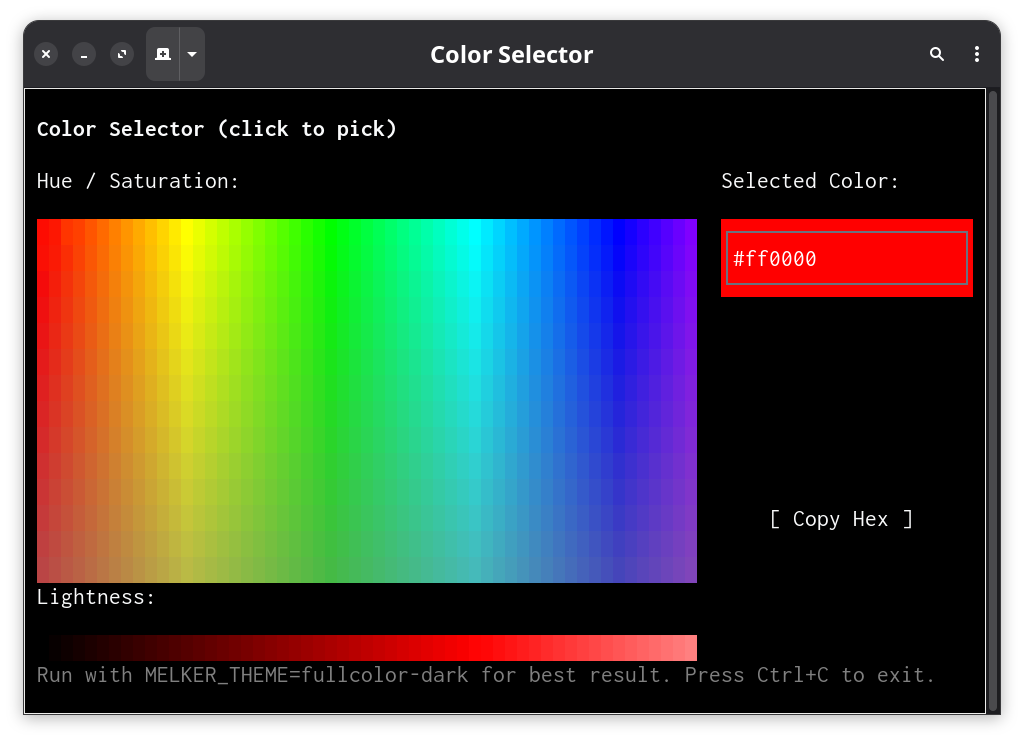
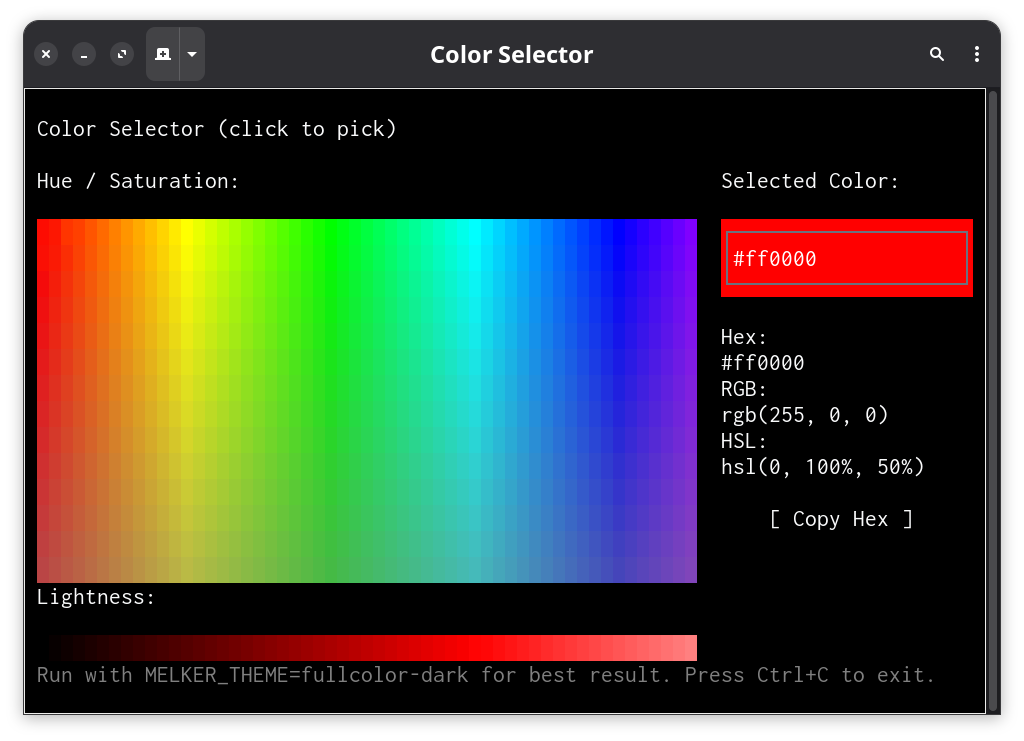
26

diff --git a/src/layout.ts b/src/layout.ts
@@ -551,6 +551,7 @@ export class LayoutEngine {
         flexBasisValue = typeof childProps.flexBasis === 'number' ? childProps.flexBasis : 0;
       }
 
+
       // Auto-set flexGrow for "fill" elements if not explicitly set
       let flexGrow = childProps.flexGrow || 0;
       if (flexGrow === 0) {
@@ -1176,6 +1177,7 @@ export class LayoutEngine {
 
   private _computeLayoutProps(element: Element, parentProps?: AdvancedLayoutProps): AdvancedLayoutProps {
     // Filter out explicit size properties from parent - these should not be inherited
+    // Also filter out gap - it's specific to each flex container
     const inheritableParentProps = parentProps ? {
       ...parentProps,
       width: undefined,
@@ -1183,7 +1185,8 @@ export class LayoutEngine {
       left: undefined,
       right: undefined,
       top: undefined,
-      bottom: undefined
+      bottom: undefined,
+      gap: undefined,
     } : undefined;
 
     const result = {

diff --git a/examples/melker-md/color_selector.md b/examples/melker-md/color_selector.md
@@ -238,8 +238,8 @@ function updateColorDisplay() {
     }
   }
   if (hexValue) hexValue.props.text = hex;
-  if (rgbValue) rgbValue.props.text = `rgb(${r}, ${g}, ${b})`;
-  if (hslValue) hslValue.props.text = `hsl(${selectedHue}, ${selectedSat}%, ${selectedLight}%)`;
+  if (rgbValue) rgbValue.props.text = 'rgb(' + r + ', ' + g + ', ' + b + ')';
+  if (hslValue) hslValue.props.text = 'hsl(' + selectedHue + ', ' + selectedSat + '%, ' + selectedLight + '%)';
 }
 
 function paintHueSatPalette(event: any) {
